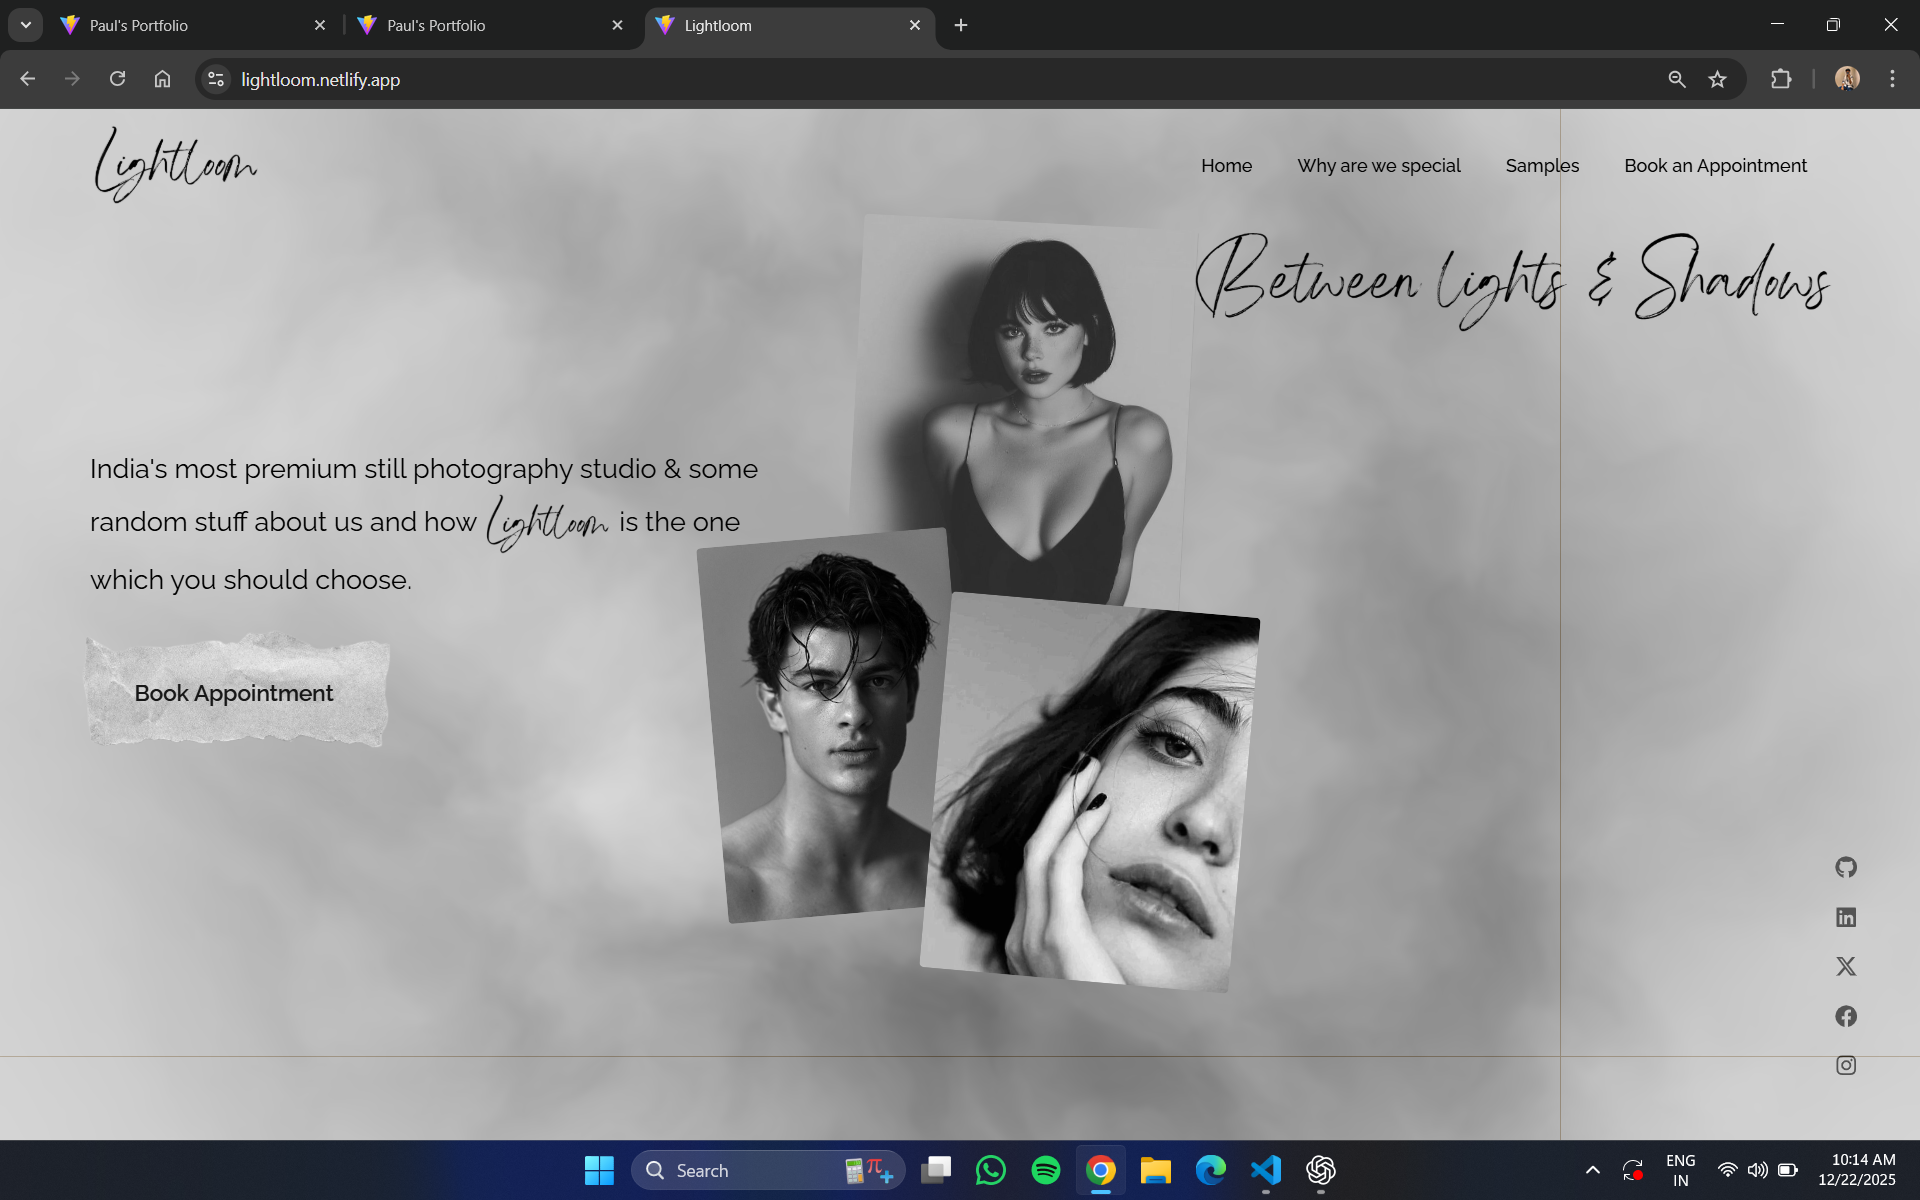
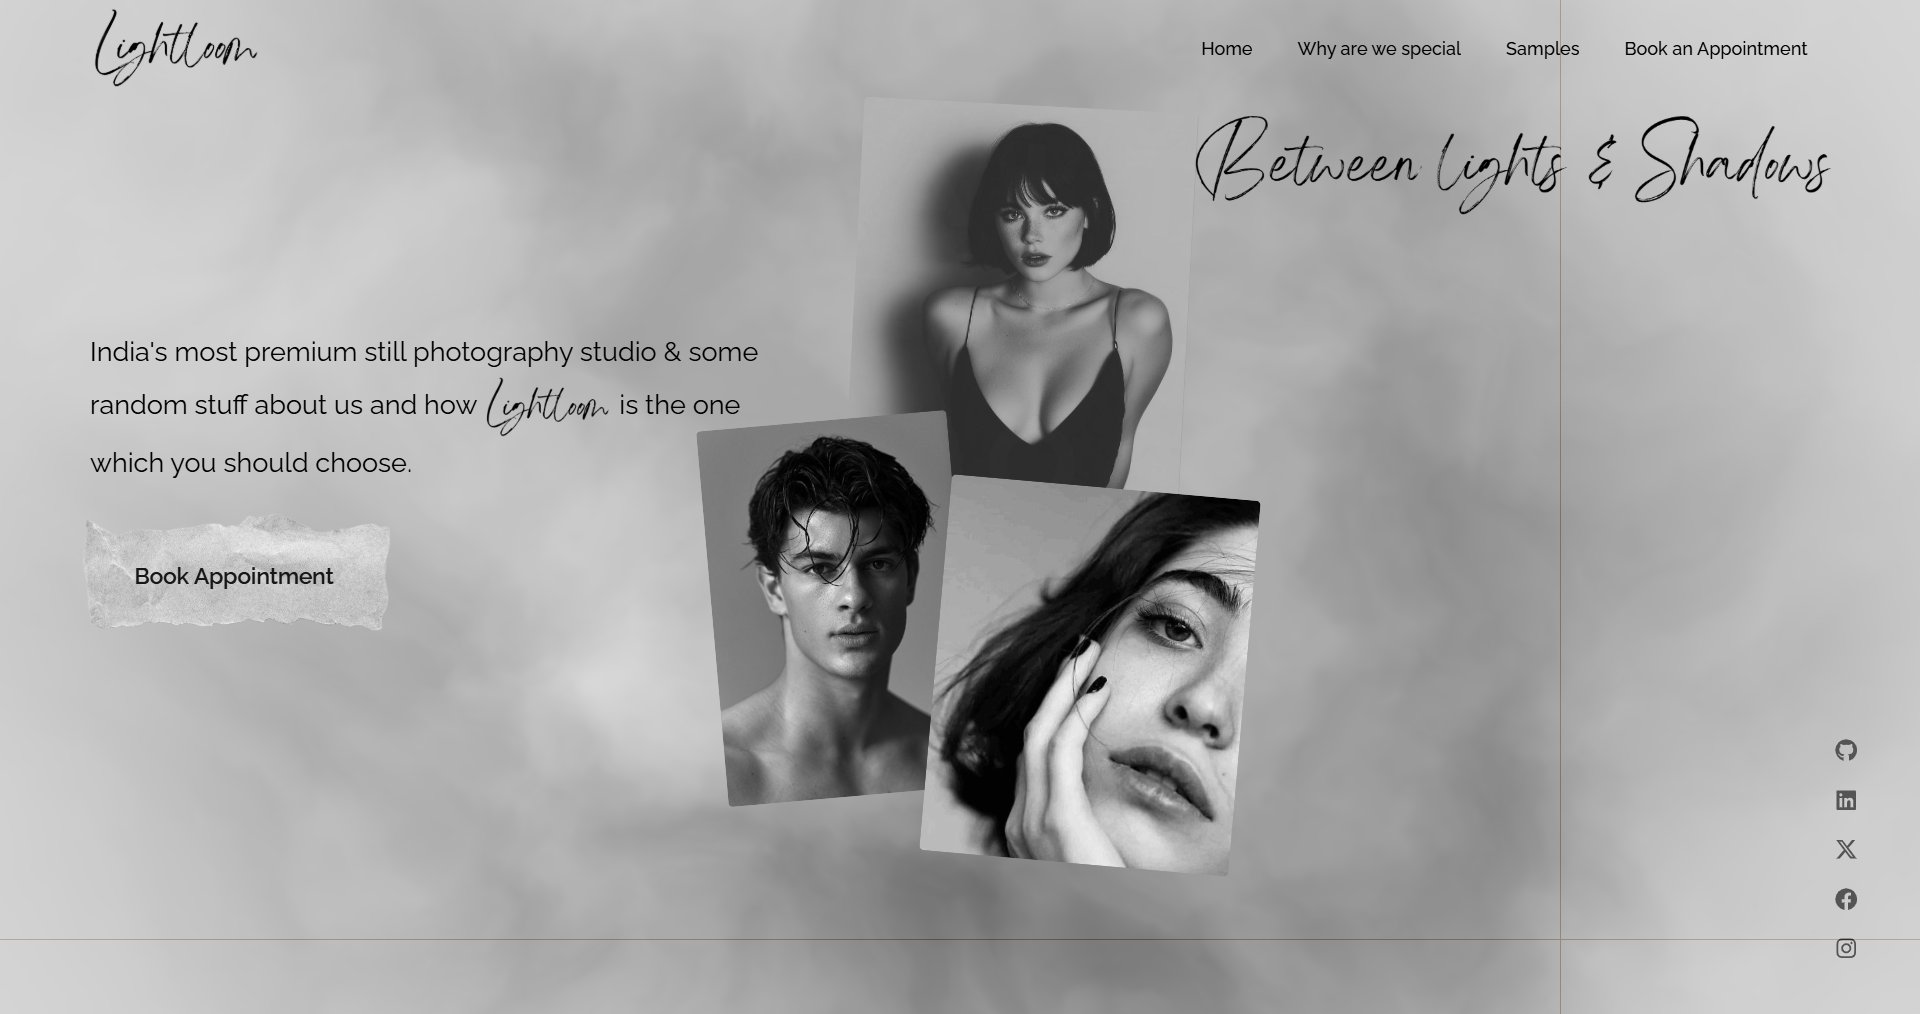
Updated

diff --git a/src/Utils/Projects.js b/src/Utils/Projects.js
@@ -1,4 +1,4 @@
-import portfolio from "../assets/thumbnail/portfolio.png";
+import lightloom from "../assets/thumbnail/lightloom.png";
 import medcare from "../assets/thumbnail/medcare.png";
 import movie from "../assets/thumbnail/movie.png";
 import img2 from "../assets/thumbnail/keepnotes.png";
@@ -103,6 +103,40 @@ export const projects = [
       "Secure authentication and authorization",
       "Scalable backend architecture using MERN stack",
       "Responsive and user-friendly interface",
+    ],
+  },
+
+  {
+    id: "lightloom",
+    title: "LightLoom",
+    category: "WebGL Creative Experience",
+    year: 2025,
+    thumbnail: lightloom,
+    navigate: "/lightloom",
+    liveLink: "",
+
+    shortDescription:
+      "A visually immersive WebGL-based design experience focused on lighting, depth, and interactive motion.",
+
+    description:
+      "LightLoom is a creative WebGL-powered web experience designed to explore modern visual storytelling through lighting, depth, and smooth interactions. The project focuses on GPU-accelerated rendering, fluid animations, and immersive design principles rather than traditional application logic. It demonstrates strong frontend creativity, performance-aware rendering, and an understanding of modern 3D web technologies.",
+
+    techStack: [
+      "WebGL",
+      "Three.js",
+      "React.js",
+      "GLSL Shaders",
+      "GSAP Animations",
+      "Responsive Canvas Design",
+    ],
+
+    features: [
+      "Interactive WebGL scene with real-time lighting effects",
+      "Smooth camera movement and animated transitions",
+      "Custom shaders for enhanced visual depth and glow",
+      "Performance-optimized rendering using GPU acceleration",
+      "Responsive canvas adapting to different screen sizes",
+      "Creative UI blending traditional DOM with 3D elements",
     ],
   },
 ];

diff --git a/src/Components/MyWorks.jsx b/src/Components/MyWorks.jsx
@@ -106,7 +106,7 @@ const MyWorks = () => {
 
         {/* PROJECTS PAGE → LOAD MORE */}
         {/* PROJECTS PAGE → LOAD MORE (only if more than 4 projects) */}
-        {!isHomePage && projects.length >= 4 && !showAll && (
+        {!isHomePage && projects.length > 4 && !showAll && (
           <div className="flex justify-center mt-10 sm:mt-12">
             <button
               onClick={() => setShowAll(true)}
